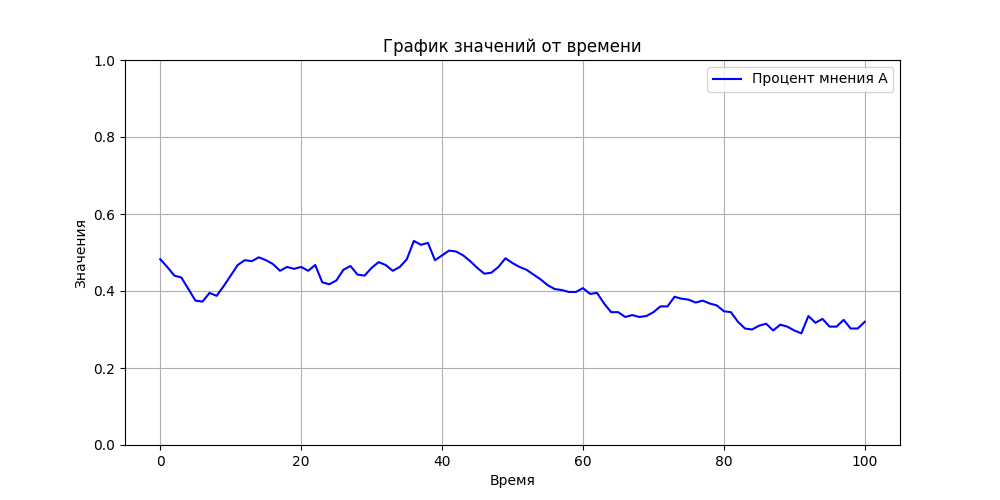
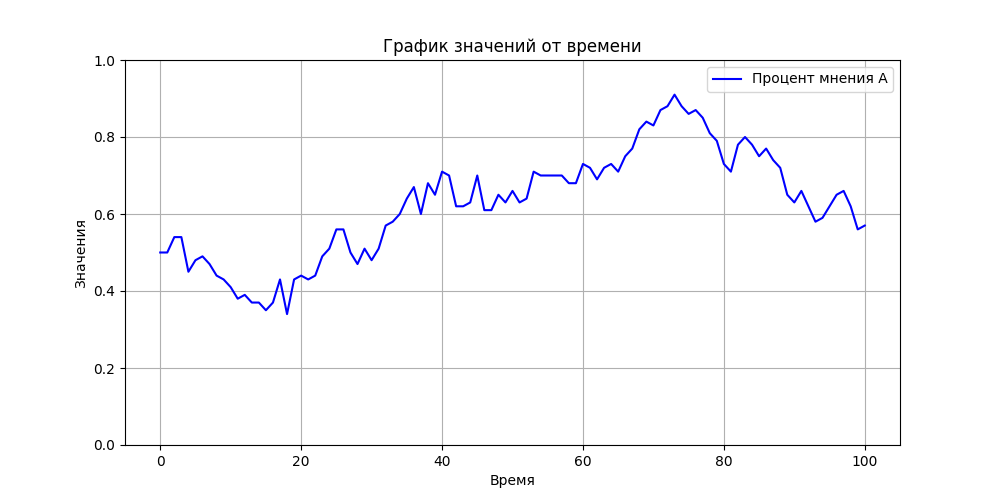
precentage added

diff --git a/bioproj.py b/bioproj.py
@@ -62,10 +62,10 @@ def data_from_json(json_object):
     b = json_object.get('b')
     if field == 0:
         field = field_generation(I, J, a, b)
-    state = json_object.get('state')
-    construct = json_object.get('construct')
+    interaction_ratios = json_object.get('interaction_ratios')
+    nonconf_ratios = json_object.get('nonconf_ratios')
     time = json_object.get('time')
-    return I, J, field, state, construct, time
+    return I, J, field, interaction_ratios, nonconf_ratios, time
 
 def count_opinions(opinions):
     opinions_count = [0, 0]
@@ -90,18 +90,19 @@ def shenon_entropy(x):
     return res
 
 class Agent:
-    def __init__(self, state, opinion, position):
+    def __init__(self, state, opinion, position, interaction=None):
         self.state = state
         self.opinion = opinion
         self.position = position
+        self.interaction = interaction
         self.database = []
     def update(self):
         self.database.append(self.opinion)
-    def opinion_decider(self, field, construct):
+    def opinion_decider(self, field):
         if self.state == "psycho":
             self.opinion = self.opinion
         elif self.state == "conf" or self.state == "nonconf":
-            if construct == "PLUS":
+            if self.interaction == "PLUS":
                 i_pos = self.position[0]
                 j_pos = self.position[1]
                 i_plus1 = (self.position[0] + 1) % I
@@ -139,7 +140,7 @@ class Agent:
                         else:
                             self.opinion = self.opinion
                             
-            elif construct == "CIRCLE":
+            elif self.interaction == "CIRCLE":
                 i_pos = self.position[0]
                 j_pos = self.position[1]
                 i_plus1 = (self.position[0] + 1) % I
@@ -182,7 +183,7 @@ class Agent:
                         else:
                             self.opinion = self.opinion
 
-            if construct == "GRAPH":
+            if self.interaction == "GRAPH":
                 impact_num_i = random.randint(0, I)
                 impact_num_j = random.randint(0, J)
                 if (self.position[0] == impact_num_i and self.position[1] == impact_num_j):
@@ -204,27 +205,51 @@ class Agent:
                     else:
                         self.opinion = field[impact_num_i - 1][impact_num_j - 1]
 
-def agents_init(field, state):
+def agents_init(field, interaction_ratios, nonconf_ratios):
     agents = []
+    total_agents = I * J
+
+    interaction_counts = {
+        interaction: int(total_agents * ratio)
+        for interaction, ratio in interaction_ratios.items()
+    }
+
+    remaining_agents = total_agents - sum(interaction_counts.values())
+    for interaction in list(interaction_counts.keys())[:remaining_agents]:
+        interaction_counts[interaction] += 1
+
+    interaction_pool = []
+    for interaction, count in interaction_counts.items():
+        interaction_pool.extend([interaction] * count)
+    random.shuffle(interaction_pool)
+
+    nonconf_counts = {
+        interaction: int(interaction_counts[interaction] * nonconf_ratios.get(interaction, 0))
+        for interaction in interaction_counts
+    }
+
     for i in range(I):
         for j in range(J):
             value = field[i][j]
+            interaction = interaction_pool.pop()
+
+            is_nonconf = random.random() < (nonconf_counts[interaction] / interaction_counts[interaction])
+            if is_nonconf:
+                nonconf_counts[interaction] -= 1
+                interaction_counts[interaction] -= 1
+
             if value == 0:
-                agent = Agent(state=state, opinion=0, position=(i, j))
-                agent.update()
-                agents.append(agent)
+                agent = Agent(state='nonconf' if is_nonconf else 'conf', opinion=0, position=(i, j), interaction=interaction)
             elif value == 1:
-                agent = Agent(state=state, opinion=1, position=(i, j))
-                agent.update()
-                agents.append(agent)
+                agent = Agent(state='nonconf' if is_nonconf else 'conf', opinion=1, position=(i, j), interaction=interaction)
             elif value == 'A':
-                agent = Agent(state='psycho', opinion=0, position=(i, j))
-                agent.update()
-                agents.append(agent)
+                agent = Agent(state='psycho', opinion=0, position=(i, j), interaction=interaction)
             elif value == 'B':
-                agent = Agent(state='psycho', opinion=1, position=(i, j))
-                agent.update()
-                agents.append(agent)
+                agent = Agent(state='psycho', opinion=1, position=(i, j), interaction=interaction)
+
+            agent.update()
+            agents.append(agent)
+
     return agents
 
 def field_from_agents(agents, psycho = False):
@@ -286,10 +311,10 @@ def show_shenon_map(agents, shenon_frames):
 
     shenon_frames.append(colored_shenon_field)
 
-def agents_field_iteration(agents, construct, visualisation = True):
+def agents_field_iteration(agents, visualisation = True):
     old_field = field_from_agents(agents)
     for agent in agents:
-        agent.opinion_decider(old_field, construct)
+        agent.opinion_decider(old_field)
         agent.update()
     return(agents)
 
@@ -305,7 +330,7 @@ def delete_everything_in_folder(folder_path):
     else:
         print(f"Папка {folder_path} уже пуста. Ничего не удалено.")
 
-def population_opinion_timelapse(time, agents, construct):
+def population_opinion_timelapse(time, agents):
     frames = []
     shenon_frames = []
     
@@ -318,7 +343,7 @@ def population_opinion_timelapse(time, agents, construct):
     
     for i in range(time):
         shenon_base = []
-        new_agents = agents_field_iteration(agents, construct)
+        new_agents = agents_field_iteration(agents)
         database_for_update = []
         for agent in agents:
             database_for_update.append(agent.database)
@@ -331,6 +356,9 @@ def population_opinion_timelapse(time, agents, construct):
         
         opinion_presentage_array.append(opinion_presentage(agents))
         opinion_timelapse.append(field_from_agents(agents, psycho = True))
+        #for agent in agents:
+        #    shenon_base.append(shenon_entropy(agent.database))
+        #shenon_timelapse.append(shenon_base)
 
     time_tmp = list(range(0, time + 1))
     plt.figure(figsize=(10, 5))
@@ -365,6 +393,6 @@ def population_opinion_timelapse(time, agents, construct):
     return agents
 
 delete_everything_in_folder('results')
-I, J, field, state, construct, time = data_from_json(json_object)
-agents = agents_init(field, state)
-res = population_opinion_timelapse(time, agents, construct)
+I, J, field, interaction_ratios, nonconf_ratios, time = data_from_json(json_object)
+agents = agents_init(field, interaction_ratios, nonconf_ratios)
+res = population_opinion_timelapse(time, agents)

diff --git a/README.md b/README.md
@@ -1,11 +1,14 @@
-1. Пример запуска:
+1. Пример запуска (в консоли переходим в папку bioinf_project):
 2. python bioproj.py Bioinf_data.json 123
-3. Числовой параметр - random state, можно оставить пустым.
+3. Числовой параметр (числа с второй строки) - random state, можно оставить пустым.
 4. Результаты появятся в папке results.
 
 ###
-1. Bioinf_data - circle 10x10, time = 100, conf, a b = 2 2
-2. data1 - plus 20x30, time = 300, nonconf, a b = 5 3
-3. data2 - graph 25x20, time = 500, conf, a b = 3 4
-4. data3 - circle 50x40, time = 400, nonconf, a b = 10 8
-5. data4 - plus 20x20, time = 250, conf, a b = 0 0
+Примеры данных, первые 3 числа - распределение по PLUS/CIRCLE/GRAPH, 
+вторые 3 числа - процент нонконформистов по классам PLUS/CIRCLE/GRAPH,
+далее - размер сетки, время, a b - количество психопатов мнения 1 и 2 соответственно
+1. Bioinf_data - [0.0 0.0 1.0], [0.2 0.2 0.2], 10x10, time = 100, a b = 2 2
+2. data1 - [0.9 0.1 0.0], [0.8 0.2 0.5], 20x30, time = 300, a b = 5 3
+3. data2 - [0.2 0.5 0.3], [0.2 0.2 0.2], 25x20, time = 500, a b = 3 4
+4. data3 - [0.3 0.3 0.4], [0.5 0.0 0.5], 50x40, time = 400, a b = 10 8
+5. data4 - [0.1 0.7 0.2], [0.1 0.01 0.9], 20x20, time = 250, a b = 0 0
